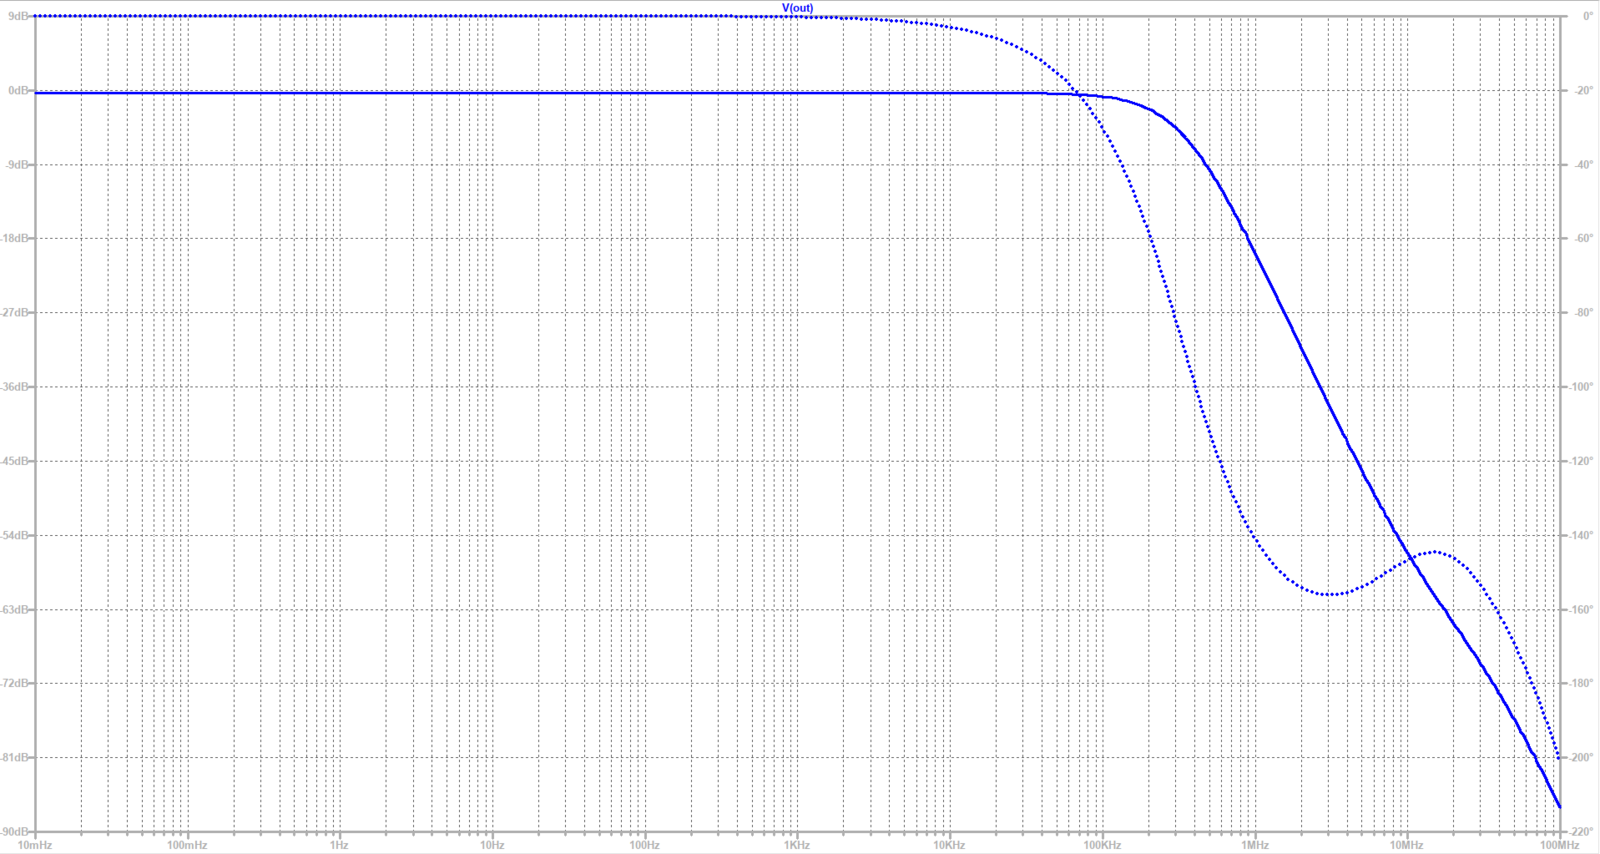
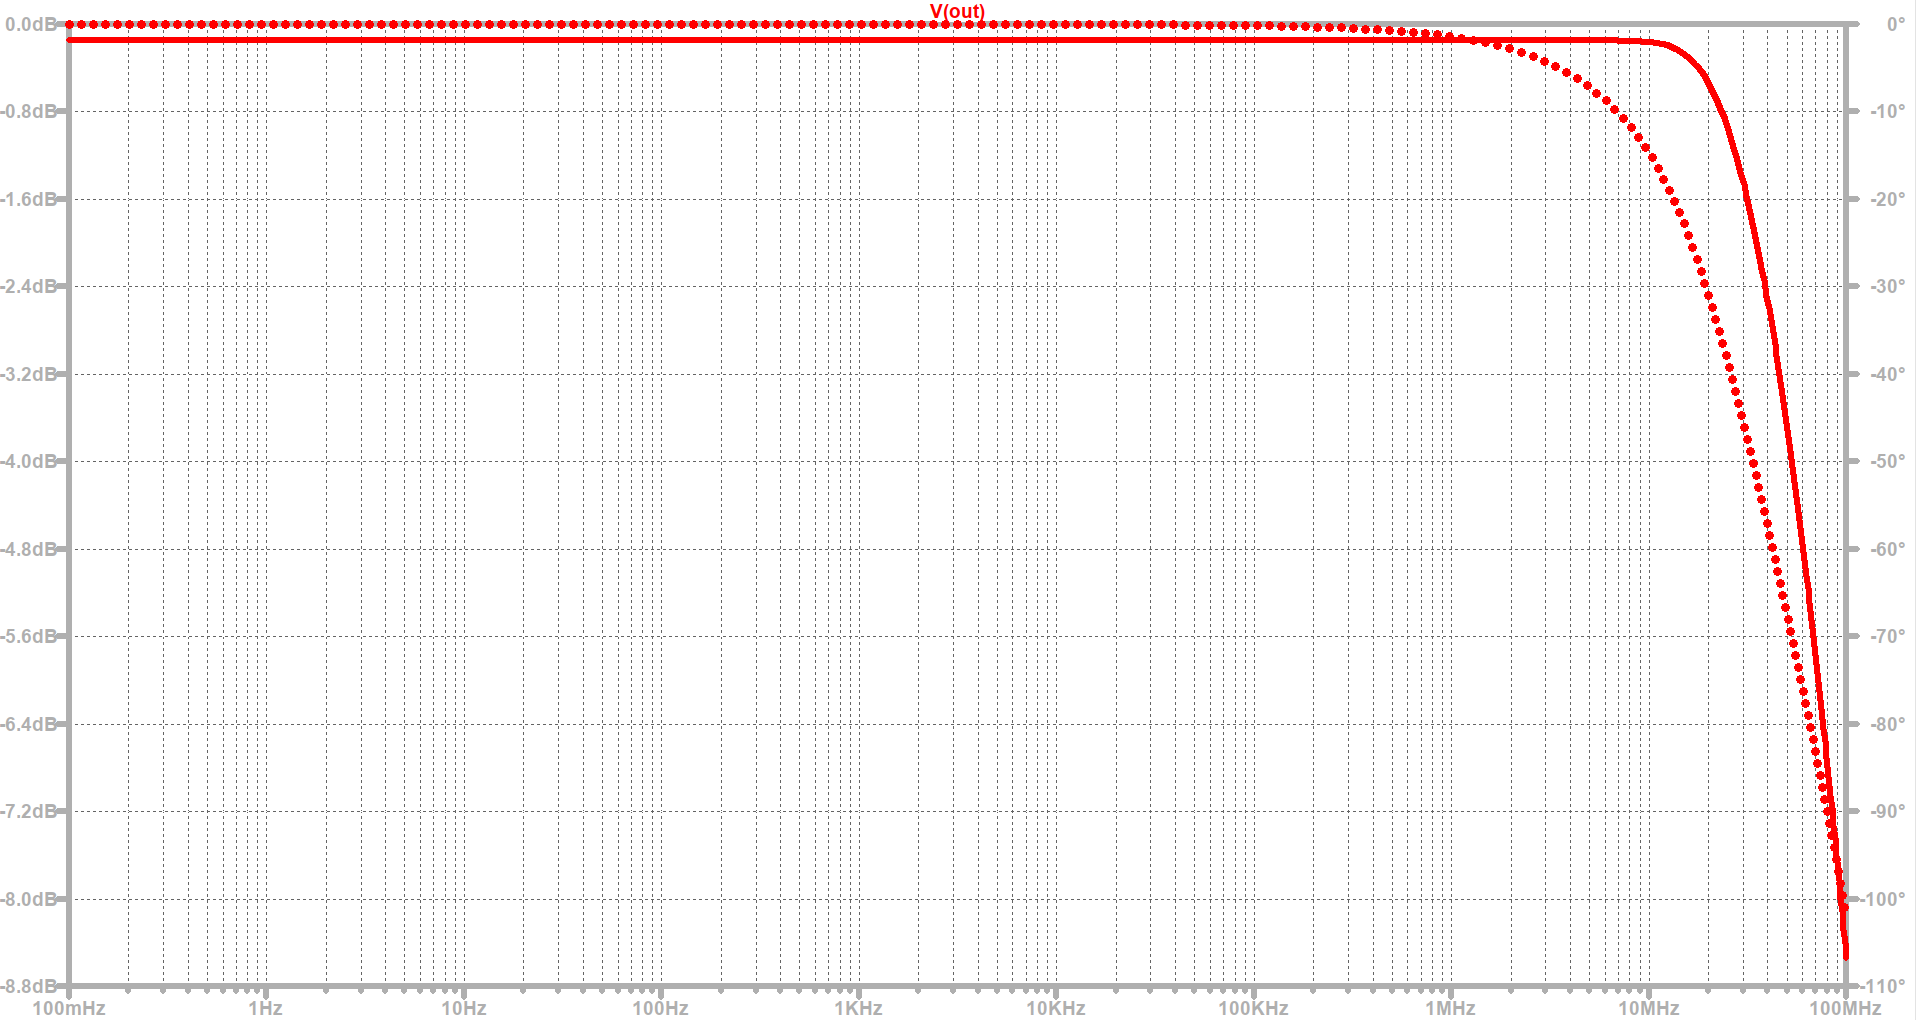
YA-OPA2675: 画像差し替え

Changed region(s): [[0.0, 0.0, 1.0, 1.0]]

diff --git a/content/projects/YA-OPA2675/index.md b/content/projects/YA-OPA2675/index.md
@@ -1,6 +1,6 @@
 ---
 title: YA-OPA2675
-description: 
+description: 優れた位相特性を持つ広帯域アンプ
 image: cover.webp
 categories:
   - Audio
